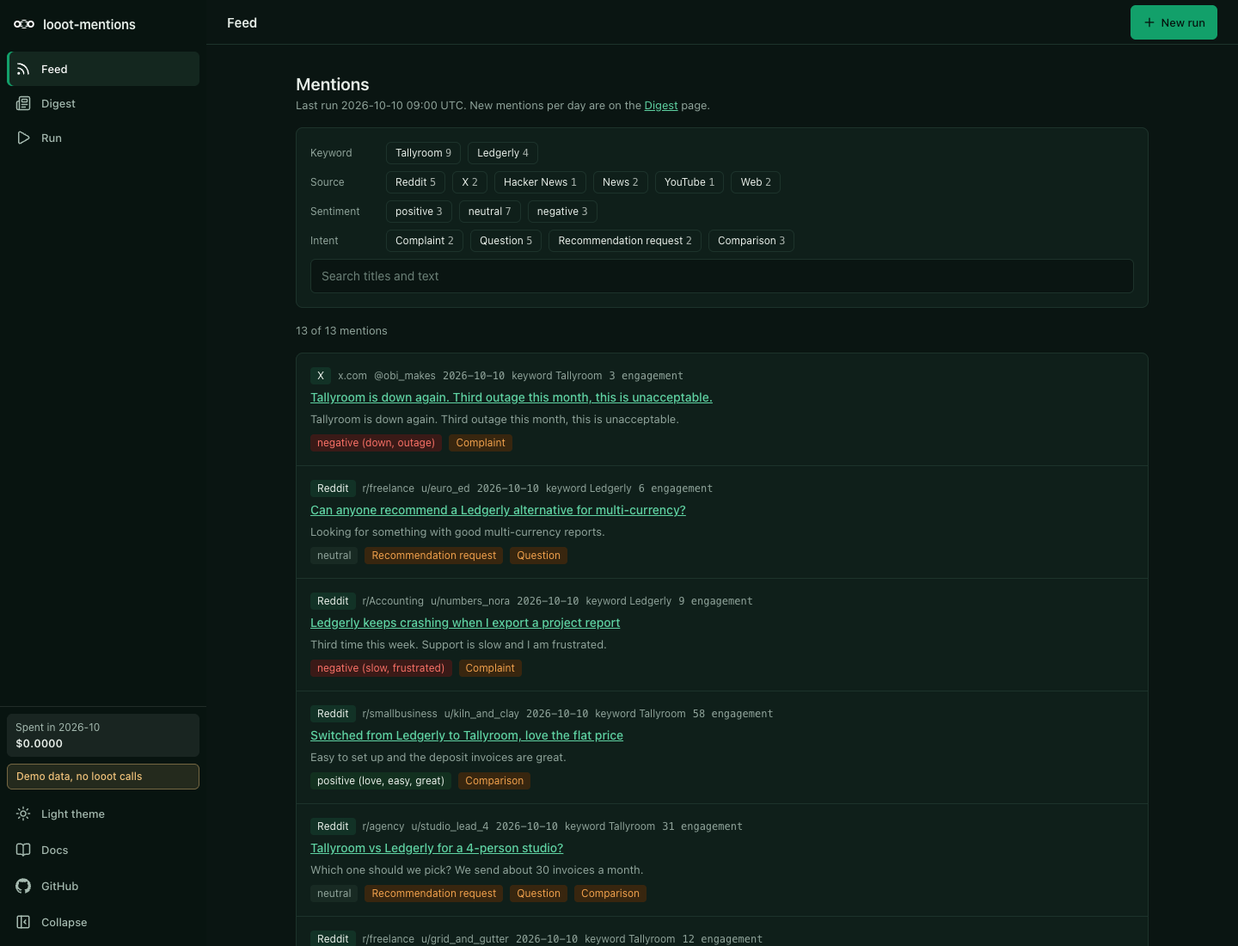
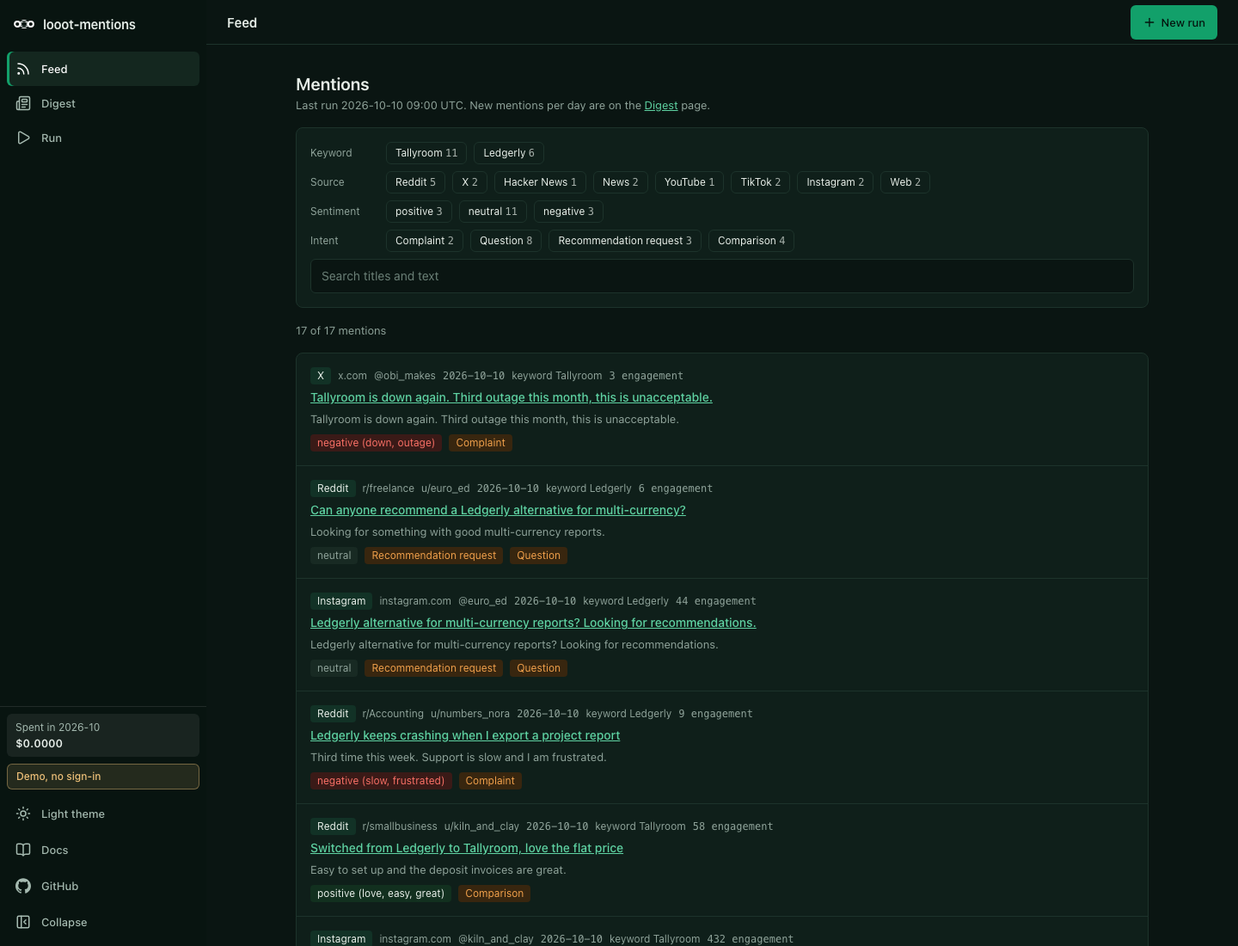
Add TikTok and Instagram reels keyword search back (v0.1.5)

diff --git a/src/engine/sources.ts b/src/engine/sources.ts
@@ -19,6 +19,8 @@ export interface SourceDef {
   jobId: string;
   /** The pinned looot endpoint this app runs. */
   endpointId: string;
+  /** Who supplies the data behind that endpoint, shown next to its price. */
+  provider: string;
   /** Price per call in micro-dollars, read from the public catalog on PRICES_AS_OF. */
   fallbackMicros: number;
   /** false until someone has checked a real response body against the parser. */
@@ -28,7 +30,7 @@ export interface SourceDef {
 }
 
 export const PRICES_AS_OF = "2026-10-10";
-export const ALL_SOURCES: SourceId[] = ["reddit", "x", "hn", "news", "youtube", "web"];
+export const ALL_SOURCES: SourceId[] = ["reddit", "x", "hn", "news", "youtube", "tiktok", "instagram", "web"];
 
 const clip = (t: string, n = 120) => (t.length > n ? `${t.slice(0, n - 3)}...` : t);
 
@@ -107,17 +109,50 @@ export function parseYoutube(raw: unknown): RawMention[] {
   });
 }
 
-const EXCLUDED_FROM_WEB = ["reddit.com", "news.ycombinator.com", "youtube.com", "x.com", "twitter.com"];
+/** scrapecreators-tiktok-search-keyword: { search_item_list: [{ aweme_info: { aweme_id, desc, create_time, statistics{play_count,digg_count,comment_count,share_count}, author{unique_id,nickname} } }] }. */
+export function parseTikTok(raw: unknown): RawMention[] {
+  return list(raw, ["search_item_list", "items", "results"]).flatMap((entry) => {
+    const r = entry.aweme_info && typeof entry.aweme_info === "object" ? obj(entry.aweme_info) : entry;
+    const text = str(r.desc, r.title, r.description);
+    if (!text) return [];
+    const id = str(r.aweme_id, r.id, r.video_id);
+    const author = obj(r.author);
+    const handle = str(author.unique_id, author.uniqueId, author.username);
+    const stats = obj(r.statistics ?? r.stats);
+    const engagement = (num(stats.digg_count, stats.diggCount, stats.likes) ?? 0) + (num(stats.comment_count, stats.commentCount) ?? 0) + (num(stats.share_count, stats.shareCount) ?? 0);
+    const url = str(r.url, r.share_url) ?? (handle && id ? `https://www.tiktok.com/@${handle}/video/${id}` : null);
+    return [{ title: clip(text), url, author: handle ? `@${handle}` : str(author.nickname), outlet: "tiktok.com", snippet: text, publishedAt: isoDate(r.create_time ?? r.createTime), engagement: engagement || undefined }];
+  });
+}
+
+/** anyapi-run-instagram-reels-search: reels with caption, creator, counts. The catalog lists no field names, so several spellings are tried. */
+export function parseInstagram(raw: unknown): RawMention[] {
+  return list(raw, ["reels", "items", "results", "posts", "media"]).flatMap((r) => {
+    const cap = obj(r.caption);
+    const text = str(typeof r.caption === "string" ? r.caption : null, cap.text, r.text, r.description, r.title);
+    if (!text) return [];
+    const owner = obj(r.owner ?? r.user ?? r.creator ?? r.author);
+    const handle = str(owner.username, owner.userName, owner.handle, typeof r.creator === "string" ? r.creator : null, r.username);
+    const code = str(r.shortcode, r.code);
+    const url = str(r.url, r.permalink, r.link) ?? (code ? `https://www.instagram.com/reel/${code}/` : null);
+    const engagement = (num(r.likeCount, r.like_count, r.likes) ?? 0) + (num(r.commentCount, r.comment_count, r.comments) ?? 0);
+    return [{ title: clip(text), url, author: handle ? `@${handle}` : null, outlet: "instagram.com", snippet: text, publishedAt: isoDate(r.takenAt ?? r.taken_at ?? r.createdAt ?? r.created_at ?? r.timestamp), engagement: engagement || undefined }];
+  });
+}
+
+const EXCLUDED_FROM_WEB = ["reddit.com", "news.ycombinator.com", "youtube.com", "x.com", "twitter.com", "tiktok.com", "instagram.com"];
 const quote = (t: string) => `"${t.replace(/"/g, "")}"`;
 
 /** Every source the app can run. Job ids and prices come from the free looot catalog. */
 export const SOURCES: Record<SourceId, SourceDef> = {
-  reddit: { id: "reddit", label: "Reddit", jobId: "reddit.post.search", endpointId: "scrapecreators-reddit-search", fallbackMicros: 1880, shapeVerified: false, inputFor: (k) => ({ query: k.term, sort: "new", timeframe: "week" }), parse: parseReddit },
-  x: { id: "x", label: "X", jobId: "x.post.search", endpointId: "anyapi-run-twitter-search", fallbackMicros: 750, shapeVerified: false, inputFor: (k) => ({ query: k.term, limit: 20, queryType: "Latest" }), parse: parseX },
-  hn: { id: "hn", label: "Hacker News", jobId: "google.serp.organic", endpointId: "serper-search", fallbackMicros: 1000, shapeVerified: true, inputFor: (k) => ({ q: `site:news.ycombinator.com ${quote(k.term)}`, num: 10, tbs: "qdr:w" }), parse: (r) => parseSearch(r, { only: "news.ycombinator.com" }) },
-  news: { id: "news", label: "News", jobId: "news.search", endpointId: "serper-news", fallbackMicros: 1000, shapeVerified: false, inputFor: (k) => ({ q: quote(k.term), num: 20, tbs: "qdr:w" }), parse: parseNews },
-  youtube: { id: "youtube", label: "YouTube", jobId: "youtube.search.videos", endpointId: "tikhub-api-youtube-web-search-video", fallbackMicros: 1000, shapeVerified: false, inputFor: (k) => ({ search_query: k.term, order_by: "upload_date" }), parse: parseYoutube },
-  web: { id: "web", label: "Web", jobId: "google.serp.organic", endpointId: "serper-search", fallbackMicros: 1000, shapeVerified: true, inputFor: (k) => ({ q: `${quote(k.term)} ${EXCLUDED_FROM_WEB.map((d) => `-site:${d}`).join(" ")}`, num: 10, tbs: "qdr:w" }), parse: (r) => parseSearch(r, { skip: EXCLUDED_FROM_WEB }) },
+  reddit: { id: "reddit", label: "Reddit", jobId: "reddit.post.search", endpointId: "scrapecreators-reddit-search", provider: "Scrape Creators", fallbackMicros: 1880, shapeVerified: false, inputFor: (k) => ({ query: k.term, sort: "new", timeframe: "week" }), parse: parseReddit },
+  x: { id: "x", label: "X", jobId: "x.post.search", endpointId: "anyapi-run-twitter-search", provider: "AnyAPI", fallbackMicros: 750, shapeVerified: false, inputFor: (k) => ({ query: k.term, limit: 20, queryType: "Latest" }), parse: parseX },
+  hn: { id: "hn", label: "Hacker News", jobId: "google.serp.organic", endpointId: "serper-search", provider: "Serper", fallbackMicros: 1000, shapeVerified: true, inputFor: (k) => ({ q: `site:news.ycombinator.com ${quote(k.term)}`, num: 10, tbs: "qdr:w" }), parse: (r) => parseSearch(r, { only: "news.ycombinator.com" }) },
+  news: { id: "news", label: "News", jobId: "news.search", endpointId: "serper-news", provider: "Serper", fallbackMicros: 1000, shapeVerified: false, inputFor: (k) => ({ q: quote(k.term), num: 20, tbs: "qdr:w" }), parse: parseNews },
+  youtube: { id: "youtube", label: "YouTube", jobId: "youtube.search.videos", endpointId: "tikhub-api-youtube-web-search-video", provider: "TikHub", fallbackMicros: 1000, shapeVerified: false, inputFor: (k) => ({ search_query: k.term, order_by: "upload_date" }), parse: parseYoutube },
+  tiktok: { id: "tiktok", label: "TikTok", jobId: "tiktok.search.videos", endpointId: "scrapecreators-tiktok-search-keyword", provider: "Scrape Creators", fallbackMicros: 1880, shapeVerified: false, inputFor: (k) => ({ query: k.term }), parse: parseTikTok },
+  instagram: { id: "instagram", label: "Instagram", jobId: "instagram.reels.search", endpointId: "anyapi-run-instagram-reels-search", provider: "AnyAPI", fallbackMicros: 1500, shapeVerified: false, inputFor: (k) => ({ query: k.term }), parse: parseInstagram },
+  web: { id: "web", label: "Web", jobId: "google.serp.organic", endpointId: "serper-search", provider: "Serper", fallbackMicros: 1000, shapeVerified: true, inputFor: (k) => ({ q: `${quote(k.term)} ${EXCLUDED_FROM_WEB.map((d) => `-site:${d}`).join(" ")}`, num: 10, tbs: "qdr:w" }), parse: (r) => parseSearch(r, { skip: EXCLUDED_FROM_WEB }) },
 };
 
 /** Fallback price per endpoint id. */

diff --git a/src/engine/engine.test.ts b/src/engine/engine.test.ts
@@ -3,15 +3,17 @@ import { DEMO_CONFIG, DEMO_NOW, fixtureRunner } from "@/demo/fixtures";
 import type { LoootRunner } from "@/lib/looot";
 import { renderDigest } from "./digest";
 import { dedupe, EMPTY_STORE, enrich, idempotencyKey, matchesKeyword, overMonthlyCap, planCalls, quoteOf, runMentions } from "./engine";
-import { FALLBACK_PRICES, parseReddit, parseSearch, parseX, parseYoutube, parseNews } from "./sources";
+import { FALLBACK_PRICES, parseInstagram, parseNews, parseReddit, parseSearch, parseTikTok, parseX, parseYoutube, SOURCES } from "./sources";
+import instagramFixture from "./fixtures/instagram-reels-search.json";
+import tiktokFixture from "./fixtures/tiktok-search-keyword.json";
 
 const deps = { looot: fixtureRunner, prices: FALLBACK_PRICES, now: DEMO_NOW };
 const run = (store = EMPTY_STORE, config = DEMO_CONFIG, d = deps) => runMentions(config, store, d);
 
 describe("plan and quote", () => {
   it("makes one call per keyword and source and adds the list prices", () => {
-    expect(planCalls(DEMO_CONFIG)).toHaveLength(12);
-    expect(quoteOf(DEMO_CONFIG, FALLBACK_PRICES).totalMicros).toBe(2 * (1880 + 750 + 1000 + 1000 + 1000 + 1000));
+    expect(planCalls(DEMO_CONFIG)).toHaveLength(16);
+    expect(quoteOf(DEMO_CONFIG, FALLBACK_PRICES).totalMicros).toBe(2 * (1880 + 750 + 1000 + 1000 + 1000 + 1880 + 1500 + 1000));
   });
   it("keys the idempotency by input and day", () => {
     const [c] = planCalls(DEMO_CONFIG);
@@ -104,6 +106,40 @@ describe("parsers", () => {
   });
   it("reads news with outlet and ISO date", () => {
     expect(parseNews({ news: [{ title: "N", link: "https://n.example", source: "Daily", date: "2026-10-01T00:00:00Z" }] })[0]).toMatchObject({ outlet: "Daily", publishedAt: "2026-10-01T00:00:00.000Z" });
+  });
+});
+
+describe("tiktok and instagram", () => {
+  it("reads tiktok videos from the documented search_item_list shape", () => {
+    const r = parseTikTok(tiktokFixture);
+    expect(r).toHaveLength(2);
+    expect(r[0]).toMatchObject({ url: "https://www.tiktok.com/@grid_and_gutter/video/7430000000000000001", author: "@grid_and_gutter", outlet: "tiktok.com", publishedAt: "2026-10-10T00:00:00.000Z", engagement: 940 + 31 + 12 });
+    expect(r[0].title).toContain("Tallyroom deposit invoices");
+    expect(parseTikTok({ search_item_list: [] })).toEqual([]);
+    expect(parseTikTok({ nothing: 1 })).toEqual([]);
+  });
+  it("reads instagram reels and builds the link from the shortcode", () => {
+    const r = parseInstagram(instagramFixture);
+    expect(r).toHaveLength(3);
+    expect(r[0]).toMatchObject({ url: "https://www.instagram.com/reel/C9aBcDeFgH1/", author: "@kiln_and_clay", outlet: "instagram.com", engagement: 410 + 22 });
+    expect(r[2].url).toBeNull();
+    expect(parseInstagram({ data: { items: [{ code: "ZZ", caption: { text: "Hi" } }] } })[0]).toMatchObject({ url: "https://www.instagram.com/reel/ZZ/", title: "Hi" });
+  });
+  it("pins each source to a documented endpoint with a provider name", () => {
+    expect(SOURCES.tiktok).toMatchObject({ jobId: "tiktok.search.videos", endpointId: "scrapecreators-tiktok-search-keyword", fallbackMicros: 1880, provider: "Scrape Creators" });
+    expect(SOURCES.instagram).toMatchObject({ jobId: "instagram.reels.search", endpointId: "anyapi-run-instagram-reels-search", fallbackMicros: 1500, provider: "AnyAPI" });
+    expect(SOURCES.tiktok.inputFor({ term: "Acme", exclude: [] })).toEqual({ query: "Acme" });
+    expect(SOURCES.instagram.inputFor({ term: "Acme", exclude: [] })).toEqual({ query: "Acme" });
+  });
+  it("puts both in the demo feed and the quote lines name the provider", async () => {
+    const r = await run();
+    expect(r.fresh.filter((m) => m.source === "tiktok").length).toBeGreaterThan(0);
+    expect(r.fresh.filter((m) => m.source === "instagram").length).toBeGreaterThan(0);
+    expect(quoteOf(DEMO_CONFIG, FALLBACK_PRICES).lines.find((l) => l.endpointId === "scrapecreators-tiktok-search-keyword")).toMatchObject({ calls: 2, priceMicros: 1880, provider: "Scrape Creators" });
+  });
+  it("keeps tiktok and instagram links out of the web source", () => {
+    expect(String(SOURCES.web.inputFor({ term: "Acme", exclude: [] }).q)).toContain("-site:tiktok.com");
+    expect(String(SOURCES.web.inputFor({ term: "Acme", exclude: [] }).q)).toContain("-site:instagram.com");
   });
 });
 

diff --git a/src/demo/fixtures.ts b/src/demo/fixtures.ts
@@ -1,5 +1,7 @@
 import type { LoootRun, LoootRunner } from "@/lib/looot";
 import { buildConfig } from "@/engine/config";
+import instagramFixture from "@/engine/fixtures/instagram-reels-search.json";
+import tiktokFixture from "@/engine/fixtures/tiktok-search-keyword.json";
 import type { MentionsConfig } from "@/engine/types";
 
 /** The fixed time every demo run is stamped with. */
@@ -54,6 +56,9 @@ const YT: Record<string, unknown> = {
   [T]: { data: { items: [{ video_id: "abc123", title: "Tallyroom review: is it worth it?", channel_name: "Studio Finance", published_time: "2026-10-09T12:00:00Z", view_count: 5200 }] } },
 };
 
+const TIKTOK: Record<string, unknown> = { [T]: { search_item_list: tiktokFixture.search_item_list.filter((i) => i.aweme_info.desc?.includes(T)) }, [L]: { search_item_list: tiktokFixture.search_item_list.filter((i) => i.aweme_info.desc?.includes(L)) } };
+const INSTAGRAM: Record<string, unknown> = { [T]: { reels: instagramFixture.reels.filter((r) => r.caption.includes(T)) }, [L]: { reels: instagramFixture.reels.filter((r) => r.caption.includes(L)) } };
+
 const done = (result: unknown): LoootRun => ({ runId: "run_demo", status: "completed", result, actualCost: 0 });
 const termIn = (text: string): string => (text.includes(T) ? T : text.includes(L) ? L : "");
 
@@ -64,6 +69,8 @@ export const fixtureRunner: LoootRunner = {
       case "scrapecreators-reddit-search": return done(REDDIT[String(input.query)] ?? { posts: [] });
       case "anyapi-run-twitter-search":
         return input.query === L ? { runId: "run_demo_pending", status: "running" } : done(X[String(input.query)] ?? { tweets: [] });
+      case "scrapecreators-tiktok-search-keyword": return done(TIKTOK[String(input.query)] ?? { search_item_list: [] });
+      case "anyapi-run-instagram-reels-search": return done(INSTAGRAM[String(input.query)] ?? { reels: [] });
       case "serper-news": return done(NEWS[termIn(String(input.q))] ?? { news: [] });
       case "tikhub-api-youtube-web-search-video":
         return input.search_query === L ? { runId: "run_demo_fail", status: "failed", error: { message: "Provider timed out" } } : done(YT[String(input.search_query)] ?? { data: { items: [] } });

diff --git a/src/components/RunForm.tsx b/src/components/RunForm.tsx
@@ -9,7 +9,7 @@ interface QuoteAnswer {
   capMicros: number;
   overCap: boolean;
   calls: number;
-  lines: { endpointId: string; calls: number; priceMicros: number }[];
+  lines: { endpointId: string; provider: string; calls: number; priceMicros: number }[];
   priceSource: string;
   quoteToken: string;
   error?: string;
@@ -64,7 +64,7 @@ export function RunForm() {
         <div className="rounded-panel border border-line bg-panel p-4 text-14">
           <p className="font-semibold">This run costs up to <span className="num">{usd(quote.totalMicros)}</span> for {quote.calls} searches.</p>
           <ul className="mt-2 space-y-1 text-13 text-mute">
-            {quote.lines.map((l) => <li key={l.endpointId} className="num">{l.calls} x {l.endpointId} at {usd(l.priceMicros)}</li>)}
+            {quote.lines.map((l) => <li key={l.endpointId} className="num">{l.calls} x {l.endpointId} ({l.provider}) at {usd(l.priceMicros)} a call</li>)}
           </ul>
           <p className="mt-2 text-12 text-mute">{quote.priceSource === "catalog" ? "Live prices from the looot catalog." : "List prices dated 2026-10-10 (the catalog was not read)."}</p>
           {quote.overCap && <p className="mt-2 text-medium">Over the cap of {usd(quote.capMicros)} a run, set on the server in mentions.yaml. Searches that do not fit will be skipped.</p>}

diff --git a/src/engine/engine.ts b/src/engine/engine.ts
@@ -22,16 +22,19 @@ export function planCalls(config: MentionsConfig): PlannedCall[] {
 
 export interface Quote {
   calls: PlannedCall[];
-  lines: { endpointId: string; calls: number; priceMicros: number }[];
+  lines: { endpointId: string; provider: string; calls: number; priceMicros: number }[];
   totalMicros: number;
 }
+
+/** Provider name behind a pinned endpoint, or the endpoint id when it is not one of ours. */
+const providerOf = (endpointId: string): string => Object.values(SOURCES).find((s) => s.endpointId === endpointId)?.provider ?? endpointId;
 
 /** Prices the plan at the given per-call prices. */
 export function quoteOf(config: MentionsConfig, prices: PriceMap): Quote {
   const calls = planCalls(config);
   const by = new Map<string, number>();
   for (const c of calls) by.set(c.endpointId, (by.get(c.endpointId) ?? 0) + 1);
-  const lines = [...by.entries()].map(([endpointId, n]) => ({ endpointId, calls: n, priceMicros: prices[endpointId] ?? 0 }));
+  const lines = [...by.entries()].map(([endpointId, n]) => ({ endpointId, provider: providerOf(endpointId), calls: n, priceMicros: prices[endpointId] ?? 0 }));
   return { calls, lines, totalMicros: lines.reduce((n, l) => n + l.calls * l.priceMicros, 0) };
 }
 

diff --git a/src/cli/index.ts b/src/cli/index.ts
@@ -79,7 +79,7 @@ async function main(): Promise<void> {
   const priced = live ? await fetchPrices(FALLBACK_PRICES) : { prices: FALLBACK_PRICES, source: "fallback" as const, unread: [] as string[] };
   const quote = quoteOf(config, priced.prices);
   console.log(`Plan: ${config.keywords.length} keyword(s) on ${config.sources.length} source(s), ${quote.calls.length} calls, list price ${usdPrecise(quote.totalMicros)} (${priced.source === "catalog" ? "live catalog prices" : `list prices dated ${PRICES_AS_OF}`}). Cap ${usdPrecise(config.maxSpendPerRunMicros)} a run, ${usdPrecise(config.monthlyCapMicros)} a month.`);
-  for (const l of quote.lines) console.log(`  ${String(l.calls).padStart(3)} x ${l.endpointId}  ${usdPrecise(l.priceMicros)}`);
+  for (const l of quote.lines) console.log(`  ${String(l.calls).padStart(3)} x ${l.endpointId} (${l.provider})  ${usdPrecise(l.priceMicros)}`);
   if (quote.totalMicros > config.maxSpendPerRunMicros) console.log("The plan is over the run cap. Calls that do not fit are skipped.");
   if (args["dry-run"]) return console.log("Dry run: no looot call was made and nothing was written.");
 

diff --git a/src/components/Feed.tsx b/src/components/Feed.tsx
@@ -4,7 +4,7 @@ import { useMemo, useState } from "react";
 import type { Intent, Mention, SentimentLabel, SourceId } from "@/engine/types";
 import { MentionRow } from "./Pills";
 
-const SOURCE_LABEL: Record<SourceId, string> = { reddit: "Reddit", x: "X", hn: "Hacker News", news: "News", youtube: "YouTube", web: "Web" };
+const SOURCE_LABEL: Record<SourceId, string> = { reddit: "Reddit", x: "X", hn: "Hacker News", news: "News", youtube: "YouTube", tiktok: "TikTok", instagram: "Instagram", web: "Web" };
 const INTENT_LABEL: Record<Intent, string> = { complaint: "Complaint", question: "Question", recommendation_request: "Recommendation request", comparison: "Comparison" };
 const SENTIMENTS: SentimentLabel[] = ["positive", "neutral", "negative"];
 

diff --git a/src/components/Pills.tsx b/src/components/Pills.tsx
@@ -9,7 +9,7 @@ export function MentionRow({ m }: { m: Mention }) {
   return (
     <li className="border-b border-line p-4 last:border-0">
       <div className="flex flex-wrap items-center gap-2 text-12 text-mute">
-        <span className="rounded bg-brand-soft px-2 py-0.5 text-ink">{SOURCES[m.source].label}</span>
+        <span className="rounded bg-brand-soft px-2 py-0.5 text-ink" title={`${SOURCES[m.source].jobId} via ${SOURCES[m.source].provider}, ${m.via}`}>{SOURCES[m.source].label}</span>
         {m.outlet && <span>{m.outlet}</span>}
         {m.author && <span>{m.author}</span>}
         {m.publishedAt && <span className="num">{m.publishedAt.slice(0, 10)}</span>}

diff --git a/src/engine/config.test.ts b/src/engine/config.test.ts
@@ -5,7 +5,7 @@ describe("config", () => {
   it("accepts strings and objects, with defaults", () => {
     const c = buildConfig({ keywords: ["Acme", { term: "Beta", exclude: ["beta test"] }] });
     expect(c.keywords[1]).toEqual({ term: "Beta", exclude: ["beta test"] });
-    expect(c.sources).toHaveLength(6);
+    expect(c.sources).toHaveLength(8);
     expect(c).toMatchObject({ maxSpendPerRunMicros: 250_000, monthlyCapMicros: 5_000_000, maxAgeDays: 14 });
   });
   it("rejects no keywords, 21 keywords, unknown sources and bad caps", () => {

diff --git a/src/cli/cli.test.ts b/src/cli/cli.test.ts
@@ -19,7 +19,7 @@ describe("mentions CLI", () => {
     const d = tmp();
     const r = run(["--keywords", "Acme,Beta", "--dry-run", "--out", d, "--data", join(d, "m.json")]);
     expect(r.status).toBe(0);
-    expect(r.stdout).toContain("12 calls, list price $0.01326");
+    expect(r.stdout).toContain("16 calls, list price $0.02002");
     expect(r.stdout).toContain("no looot call was made");
     expect(existsSync(join(d, "m.json"))).toBe(false);
   });

diff --git a/src/engine/types.ts b/src/engine/types.ts
@@ -1,4 +1,4 @@
-export type SourceId = "reddit" | "x" | "hn" | "news" | "youtube" | "web";
+export type SourceId = "reddit" | "x" | "hn" | "news" | "youtube" | "tiktok" | "instagram" | "web";
 export type SentimentLabel = "positive" | "neutral" | "negative";
 export type Intent = "complaint" | "question" | "recommendation_request" | "comparison";
 

diff --git a/README.md b/README.md
@@ -4,9 +4,9 @@
 
 [![License](https://img.shields.io/github/license/loootai/looot-mentions)](LICENSE) [![Release](https://img.shields.io/github/v/release/loootai/looot-mentions)](https://github.com/loootai/looot-mentions/releases) [![Docs](https://img.shields.io/badge/docs-docs.looot.ai-12A06A)](https://docs.looot.ai)
 
-Brand and keyword listening in the open. Give it keywords and brand names. It searches Reddit, X, Hacker News, news, YouTube and the web through [looot](https://looot.ai), removes duplicates, tags each mention by source, sentiment and intent, and shows a feed with filters and a daily digest. A headless CLI writes only what is new since the last run to markdown, so it runs from a daily GitHub Actions cron.
+Brand and keyword listening in the open. Give it keywords and brand names. It searches Reddit, X, Hacker News, news, YouTube, TikTok, Instagram and the web through [looot](https://looot.ai), removes duplicates, tags each mention by source, sentiment and intent, and shows a feed with filters and a daily digest. A headless CLI writes only what is new since the last run to markdown, so it runs from a daily GitHub Actions cron.
 
-An open-source alternative to Brand24 and Mention. On 2026-10-10 Brand24 listed $249 a month for its Individual plan ($199 billed yearly). Mention's pricing page showed no figure. Here one keyword on all six sources costs about $0.0066 per run, so 3 keywords daily is about $0.60 a month.
+An open-source alternative to Brand24 and Mention. On 2026-10-10 Brand24 listed $249 a month for its Individual plan ($199 billed yearly). Mention's pricing page showed no figure. Here one keyword on all eight sources costs about $0.0100 per run, so 3 keywords daily is about $0.90 a month.
 
 ![Feed](docs/screenshots/feed-light.png)
 
@@ -16,7 +16,7 @@ An open-source alternative to Brand24 and Mention. On 2026-10-10 Brand24 listed 
 
 ## What it does
 
-- Searches 6 sources per keyword and keeps a mention only when it contains the keyword and none of your exclusion words.
+- Searches 8 sources per keyword and keeps a mention only when it contains the keyword and none of your exclusion words.
 - Dedupes by canonical URL and by normalised title, so a story syndicated under ten URLs counts once and a link with tracking parameters matches the clean one.
 - Tags sentiment (positive, neutral, negative) with word lists and shows the words that produced the label. Tags intent (complaint, question, recommendation request, comparison) with patterns. Both lists live in [config/rules.json](config/rules.json) and you can edit them.
 - Feed with filters for keyword, source, sentiment and intent, plus text search.
@@ -32,15 +32,19 @@ An open-source alternative to Brand24 and Mention. On 2026-10-10 Brand24 listed 
 | Hacker News | `google.serp.organic` | `serper-search` with `site:news.ycombinator.com` | $0.0010 |
 | News | `news.search` | `serper-news` | $0.0010 |
 | YouTube | `youtube.search.videos` | `tikhub-api-youtube-web-search-video` | $0.0010 |
+| TikTok | `tiktok.search.videos` | `scrapecreators-tiktok-search-keyword` | $0.00188 |
+| Instagram reels | `instagram.reels.search` | `anyapi-run-instagram-reels-search` | $0.0015 |
 | Web | `google.serp.organic` | `serper-search`, excluding the sites above | $0.0010 |
 
 looot has no Hacker News provider, so Hacker News is a Google search limited to that site. It finds stories and discussions that Google indexed, not every comment.
 
 Prices are list prices read from the free public catalog on 2026-10-10. A real run re-reads them first and refuses to call an endpoint whose live price it cannot read.
 
-Cost of a typical run, one keyword on all six sources at list price: $0.00663. Two keywords: $0.0133. A daily run of 3 keywords costs about $0.0199 a day.
+Cost of a typical run, one keyword on all eight sources at list price: $0.01001 (0.00188 + 0.00075 + 0.0010 + 0.0010 + 0.0010 + 0.00188 + 0.0015 + 0.0010). Two keywords: $0.02002. A daily run of 3 keywords costs about $0.03003 a day. Before TikTok and Instagram were added the same run cost $0.00663 on six sources.
 
-Dropped, because looot has no provider for it: Facebook and Instagram posts by keyword, TikTok keyword search (providers exist, not wired here), podcasts, forums outside Reddit and Hacker News, review sites as a source, share of voice, influence scores and alerts on volume spikes.
+TikTok and Instagram came back in 0.1.5. I checked the catalog on 2026-10-11 and both have keyword search. TikTok uses the Scrape Creators endpoint, whose catalog entry documents the response (`search_item_list[].aweme_info`). Instagram searches reels only, because the catalog's Instagram keyword endpoints return accounts and hashtags or Google-indexed posts, and the reels endpoint is the one that searches Instagram itself. Its catalog entry lists no field names, so that parser tries several spellings and is marked unverified.
+
+Still dropped, because the catalog has no provider for it. Facebook posts by keyword: searches for `facebook post search`, `facebook keyword`, `facebook public posts`, `justoneapi facebook` and `anyapi facebook` found only posts read by page, group or URL, plus Marketplace, events and ad libraries. Hacker News: searches for `hacker news`, `ycombinator`, `hn algolia` and `forum` found no Hacker News endpoint, so it stays a Google search limited to news.ycombinator.com. Also dropped: Instagram posts by keyword. `anysite-api-instagram-search-posts` exists at $0.00012 a result, but this app prices and caps per call, not per result, so it is not wired. Podcasts, forums outside Reddit and Hacker News, review sites as a source, share of voice, influence scores and alerts on volume spikes.
 
 ## What you need
 
@@ -102,12 +106,14 @@ Price the run first. This reads the free public catalog for live prices when it 
 
 ```
 $ npm run mentions -- --config mentions.yaml --dry-run
-Plan: 2 keyword(s) on 6 source(s), 12 calls, list price $0.01326 (list prices dated 2026-10-10). Cap $0.2500 a run, $5.00 a month.
-    2 x scrapecreators-reddit-search  $0.00188
-    2 x anyapi-run-twitter-search  $0.00075
-    4 x serper-search  $0.0010
-    2 x serper-news  $0.0010
-    2 x tikhub-api-youtube-web-search-video  $0.0010
+Plan: 2 keyword(s) on 8 source(s), 16 calls, list price $0.02002 (list prices dated 2026-10-10). Cap $0.2500 a run, $5.00 a month.
+    2 x scrapecreators-reddit-search (Scrape Creators)  $0.00188
+    2 x anyapi-run-twitter-search (AnyAPI)  $0.00075
+    4 x serper-search (Serper)  $0.0010
+    2 x serper-news (Serper)  $0.0010
+    2 x tikhub-api-youtube-web-search-video (TikHub)  $0.0010
+    2 x scrapecreators-tiktok-search-keyword (Scrape Creators)  $0.00188
+    2 x anyapi-run-instagram-reels-search (AnyAPI)  $0.0015
 Dry run: no looot call was made and nothing was written.
 ```
 
@@ -129,7 +135,7 @@ Web UI on your data: `npm run dev`, then open http://localhost:3000. It reads `d
 - Every paid action shows a quote first. The CLI quotes with `--dry-run` and prints the same plan before a real run. The Run page shows the quote before its search button appears. The quote carries a signed token tied to your session, the keywords and the caps, and the run route takes the confirmed maximum from that token, not from the request body. A session may start 5 runs per 10 minutes.
 - The run cap is `--max-spend` or `maxSpendPerRunUsd` in the config. The default is $0.25. The web UI reads the same value from `mentions.yaml` on the server and ignores any cap sent in a request. A call that would pass the cap is skipped and never sent.
 - The month cap is `monthlyCapUsd`. The default is $5. The CLI checks it before the run starts, from the spend recorded in `data/mentions.json`, and stops with exit code 3 if the plan would pass it.
-- A typical run is one keyword on all six sources at list price, $0.00663. Two keywords cost $0.0133. Three keywords daily cost about $0.0199 a day, about $0.60 a month.
+- A typical run is one keyword on all eight sources at list price, $0.01001. Two keywords cost $0.02002. Three keywords daily cost about $0.03003 a day, about $0.90 a month.
 - Each call carries an idempotency key made from the keyword, the call input, the endpoint and the day. A second run on the same day replays the stored run and charges nothing more.
 - A call still going when waiting stops (60 seconds) is "pending", not "failed", and the digest says so.
 - Failed calls are not charged by looot.
@@ -226,7 +232,7 @@ Open an issue at https://github.com/loootai/looot-mentions/issues with the run i
 
 ## Status
 
-No paid looot run was made. The code and fixtures follow the endpoint descriptions in the looot catalog and the parsers of the sibling repo [looot-monitor](https://github.com/loootai/looot-monitor). The Reddit, X, news and Google parsers reuse shapes from that repo. The YouTube parser searches the response for a list of videos because the exact nesting is not documented, and it is built from a hand-written fixture, so expect to adjust field names after your first real run. In the code, Hacker News and Web are marked `shapeVerified: true` (they use the pinned `serper-search` shape) and Reddit, X, news and YouTube are `false`. If a parser fails on a real response, open an issue with the raw response.
+No paid looot run was made. The code and fixtures follow the endpoint descriptions in the looot catalog and the parsers of the sibling repo [looot-monitor](https://github.com/loootai/looot-monitor). The Reddit, X, news and Google parsers reuse shapes from that repo. The YouTube parser searches the response for a list of videos because the exact nesting is not documented, and it is built from a hand-written fixture, so expect to adjust field names after your first real run. In the code, Hacker News and Web are marked `shapeVerified: true` (they use the pinned `serper-search` shape) and Reddit, X, news, YouTube, TikTok and Instagram are `false`. The TikTok parser follows the response the catalog documents for `scrapecreators-tiktok-search-keyword`, and its fixture is `src/engine/fixtures/tiktok-search-keyword.json`. The Instagram reels entry documents no fields, so that parser tries several names against a hand-written fixture. If a parser fails on a real response, open an issue with the raw response.
 
 Sentiment by word list misses sarcasm and reads "recommend a tool" as neutral on purpose. Treat labels as a first pass: the feed shows the matched words so you can check each one. The GitHub Actions workflow was linted but not run, because it needs a repository secret. All demo brands are invented.
 
